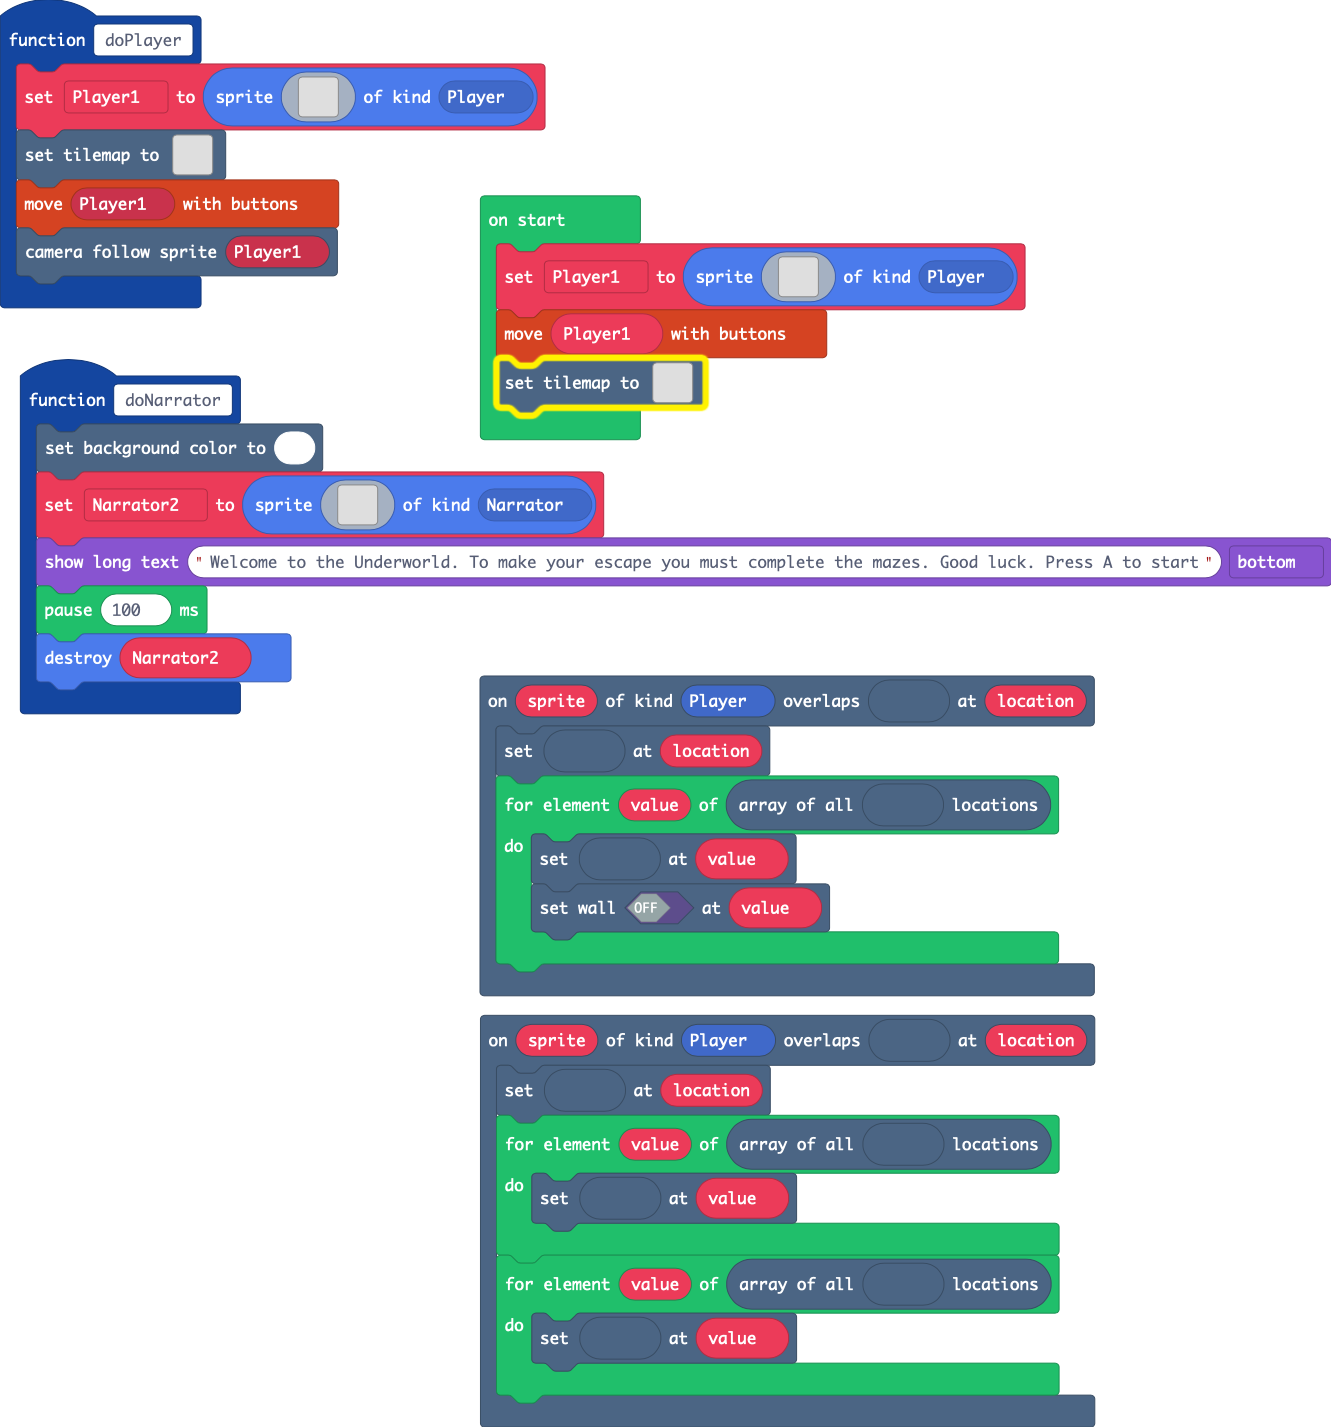
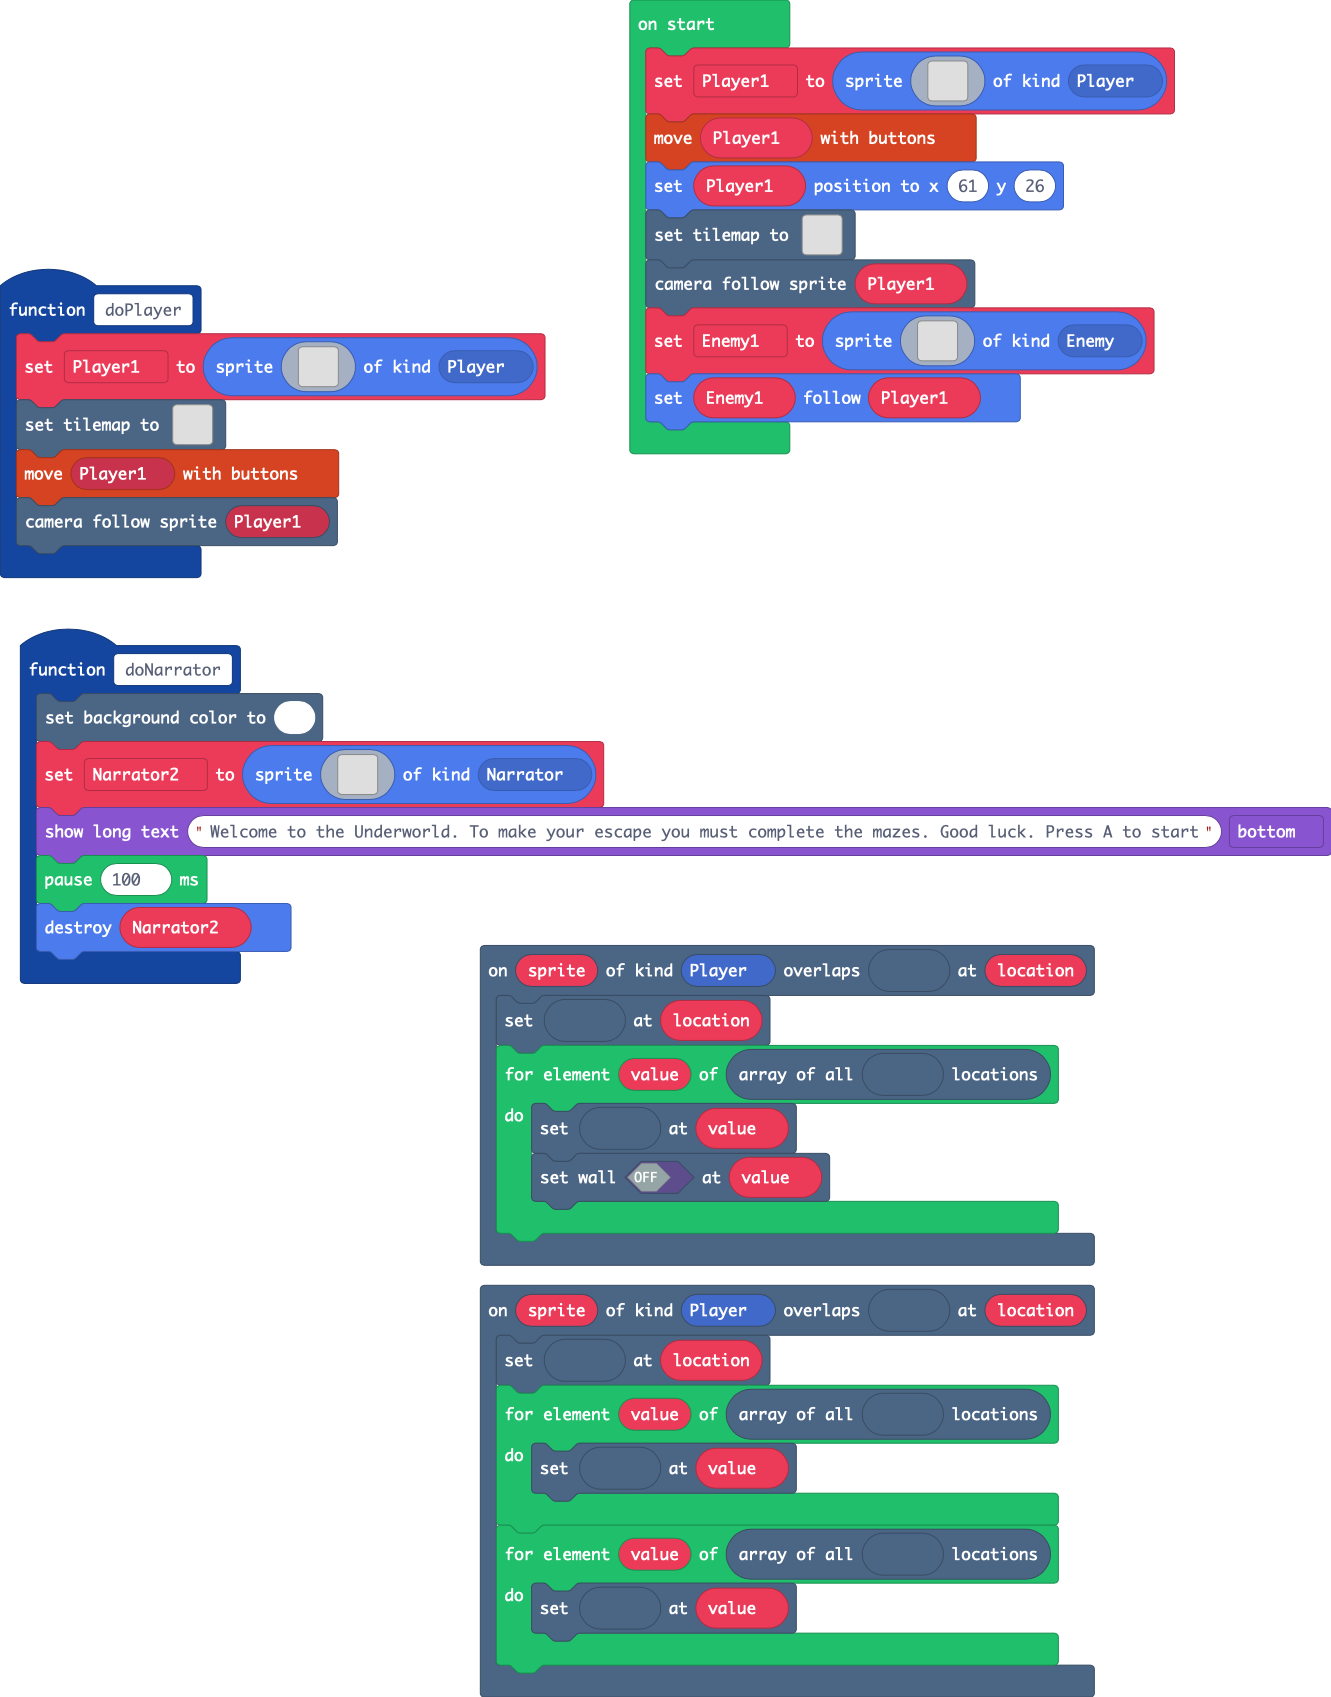
Created level 2. Added an enemy to follow hero sprite.

diff --git a/main.ts b/main.ts
@@ -149,26 +149,47 @@ f b b b b f 2 2 2 2 f d 4 . . . . . . . . . . .
 . . . . . . . . . . . . . . . . . . . . . . . . 
 `, SpriteKind.Player)
 controller.moveSprite(Player1)
+Player1.setPosition(61, 26)
 tiles.setTilemap(tiles.createTilemap(
-            hex`1000100000000000000000000000000000000000000000000000000000000000000000000000000000000000000000000000000000000000000000000000000000000000000000000000000000000000000000000000000000000000000000000000000000000000000000000000000000000000000000000000000000000000000000000000000000000000000000000000000000000000000000000000000000000000000000000000000000000000000000000000000000000000000000000000000000000000000000000000000000000000000000000000000000000000000000000000000000000000000000000000000000000000000000000000000000000000`,
[1 lines of base64/hex data omitted]
             img`
-. . . . . . . . . . . . . . . . 
-. . . . . . . . . . . . . . . . 
-. . . . . . . . . . . . . . . . 
-. . . . . . . . . . . . . . . . 
-. . . . . . . . . . . . . . . . 
-. . . . . . . . . . . . . . . . 
-. . . . . . . . . . . . . . . . 
-. . . . . . . . . . . . . . . . 
-. . . . . . . . . . . . . . . . 
-. . . . . . . . . . . . . . . . 
-. . . . . . . . . . . . . . . . 
-. . . . . . . . . . . . . . . . 
-. . . . . . . . . . . . . . . . 
-. . . . . . . . . . . . . . . . 
-. . . . . . . . . . . . . . . . 
-. . . . . . . . . . . . . . . . 
+2 2 2 2 2 2 2 2 2 2 2 2 2 2 2 2 
+2 2 2 . 2 2 2 2 2 2 2 2 2 2 2 2 
+2 2 2 . 2 2 2 2 2 2 2 2 2 2 2 2 
+2 2 2 . 2 2 2 2 2 2 2 2 2 2 2 2 
+2 2 2 . . 2 2 2 2 2 2 2 2 2 2 2 
+2 2 2 . . . . . . . . . . . . 2 
+2 2 2 . 2 2 2 2 . 2 2 2 2 2 2 2 
+2 2 2 . 2 2 2 2 . 2 2 2 2 2 2 2 
+2 2 2 . 2 2 2 2 . 2 2 2 2 2 2 2 
+2 2 2 . 2 2 2 2 . 2 2 2 2 2 2 2 
+2 2 2 . 2 2 2 2 . . 2 2 2 2 2 2 
+2 2 2 . 2 2 2 2 . . . . . . . 2 
+2 2 2 2 2 2 2 2 2 2 2 2 2 2 . 2 
+2 2 2 2 2 2 2 2 2 2 2 2 2 2 . 2 
+2 2 2 2 2 2 2 2 2 2 2 2 2 . . 2 
+2 2 2 2 2 2 2 2 2 2 2 2 2 . 2 2 
 `,
-            [myTiles.tile0],
+            [myTiles.tile0,sprites.builtin.oceanDepths3,sprites.builtin.oceanDepths6,sprites.builtin.oceanDepths4,sprites.builtin.oceanDepths8,sprites.builtin.oceanDepths9,sprites.builtin.oceanSand6,sprites.builtin.oceanSand10,sprites.builtin.oceanSand3,sprites.builtin.oceanSand0,sprites.dungeon.greenOuterNorthWest,sprites.dungeon.greenOuterWest0,sprites.dungeon.greenOuterNorth1,sprites.dungeon.greenOuterNorthEast,sprites.dungeon.greenOuterEast0,sprites.dungeon.greenOuterSouthEast,sprites.dungeon.greenInnerSouthWest,sprites.dungeon.greenInnerSouthEast,sprites.dungeon.greenInnerNorthEast,sprites.dungeon.greenInnerNorthWest,sprites.dungeon.greenOuterSouth0,sprites.dungeon.greenOuterWest1,sprites.dungeon.greenOuterNorth0,sprites.dungeon.greenOuterSouthWest,sprites.dungeon.greenOuterSouth1,sprites.builtin.brick,sprites.dungeon.hazardSpike,sprites.dungeon.collectibleInsignia,sprites.builtin.crowd7,sprites.builtin.crowd1,sprites.builtin.crowd3,sprites.builtin.crowd0,sprites.builtin.crowd2,sprites.builtin.crowd4,sprites.builtin.crowd5,sprites.builtin.crowd6,sprites.builtin.crowd8,sprites.dungeon.hazardLava0,sprites.dungeon.hazardLava1,sprites.builtin.crowd9,sprites.dungeon.hazardWater,sprites.dungeon.stairLadder,sprites.dungeon.buttonOrange],
             TileScale.Sixteen
         ))
+scene.cameraFollowSprite(Player1)
+let Enemy1 = sprites.create(img`
+. . f f f . . . . . . . . . . . 
+f f f c c . . . . . . . . f f f 
+f f c c c . c c . . . f c b b c 
+f f c 3 c c 3 c c f f b b b c . 
+f f c 3 b c 3 b c f b b c c c . 
+f c b b b b b b c f b c b c c . 
+c c 1 b b b 1 b c b b c b b c . 
+c b b b b b b b b b c c c b c . 
+c b 1 f f 1 c b b c c c c c . . 
+c f 1 f f 1 f b b b b f c . . . 
+f f f f f f f b b b b f c . . . 
+f f 2 2 2 2 f b b b b f c c . . 
+. f 2 2 2 2 2 b b b c f . . . . 
+. . f 2 2 2 b b b c f . . . . . 
+. . . f f f f f f f . . . . . . 
+. . . . . . . . . . . . . . . . 
+`, SpriteKind.Enemy)
+Enemy1.follow(Player1)
